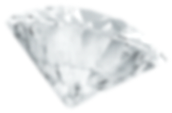
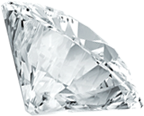
index::parallax -- disabled blur effect for brills

diff --git a/src/sass/modules/page-vendors/page_01__main/_008--pre-footer.scss b/src/sass/modules/page-vendors/page_01__main/_008--pre-footer.scss
@@ -212,16 +212,16 @@
     }
   }
   &:nth-child(5){
-    width: 76px;
-    height: 76px;
+    width: 62px;
+    height: 62px;
     background: url('../img/pre-f_g2_05.png');
     top: 500px;
     right: 195px;
 
     @media #{$ipad-macair} {
       background: url('../img/pre-f_g2_05--macair.png');
-      width: 55px;
-      height: 54px;
+      width: 62px;
+      height: 62px;
       top: 360px;
       right: 110px;
       right: 9%;
@@ -322,24 +322,24 @@
   position: absolute;
 
   &:nth-child(1){
-    width: 299px;
-    height: 196px;
-    background: url('../img/pre-f_g4_01.png');
+    width: 160px;
+    height: 130px;
+    background: url('../img/pre-f_g4_01.png') no-repeat;
     top: 715px;//+150
     left: 85px;
 
     @media #{$ipad-macair} {
-      background: url('../img/pre-f_g4_01--macair.png');
-      width: 214px;
-      height: 141px;
+      background: url('../img/pre-f_g4_01--macair.png') no-repeat;
+      width: 160px;
+      height: 130px;
       top: 550px;
       left: 4%;
     }
     @media #{$mobile-i7} {
       // display: none;
-      background: url('../img/pre-f_g4_01--mobile.png');
-      width: 172px;
-      height: 113px;
+      background: url('../img/pre-f_g4_01--mobile.png') no-repeat;
+      width: 144px;
+      height: 116px;
       top: 455px;
       left: -22%;
     }
@@ -365,15 +365,15 @@
   }
   &:nth-child(3){
     width: 62px;
-    height: 75px;
+    height: 62px;
     background: url('../img/pre-f_g4_03.png');
     top: 270px;
     right: 400px;
 
     @media #{$ipad-macair} {
       background: url('../img/pre-f_g4_03--macair.png');
-      width: 45px;
-      height: 54px;
+      width: 62px;
+      height: 62px;
       top: 240px;
       right: 290px;
       right: 22%;
@@ -381,8 +381,8 @@
     @media #{$mobile-i7} {
       // display: none;
       background: url('../img/pre-f_g4_03--mobile.png');
-      width: 41px;
-      height: 49px;
+      width: 62px;
+      height: 62px;
       top: 570px;
       right: 67%;
     }

diff --git a/src/sass/modules/page-vendors/page_01__main/_004.1--parallax.scss b/src/sass/modules/page-vendors/page_01__main/_004.1--parallax.scss
@@ -65,8 +65,8 @@
       & .brills-parallax-item {
         &:nth-child(1){
           background: url('../img/parallax-brills-left.png');
-          width: 202px;
-          height: 725px;
+          width: 193px;
+          height: 703px;
           position: relative;
           z-index: 8;
           @media #{$desktop} {
@@ -74,14 +74,14 @@
           }
           @media #{$ipad-macair} {
             background: url('../img/parallax-brills-left--macair.png');
-            width: 143px;
-            height: 515px;
+            width: 145px;
+            height: 527px;
           }
         }
         &:nth-child(2){
           background: url('../img/parallax-brills-right-bg.png');
-          width: 365px;
-          height: 990px;
+          width: 369px;
+          height: 983px;
           position: absolute;
           top: 0;
           right: 94px;
@@ -91,8 +91,8 @@
           }
           @media #{$ipad-macair} {
             background: url('../img/parallax-brills-right-bg--macair.png');
-            width: 262px;
-            height: 702px;
+            width: 265px;
+            height: 707px;
             right: 34px;
           }
         }
@@ -124,8 +124,8 @@
       & .brills-parallax-item {
         &:nth-child(1){
           background: url('../img/parallax-brills-right.png');
-          width: 603px;
-          height: 250px;
+          width: 454px;
+          height: 188px;
           position: absolute;
           top: 0;
           right: 0;
@@ -135,8 +135,8 @@
           }
           @media #{$ipad-macair} {
             background: url('../img/parallax-brills-right--macair.png');
-            width: 429px;
-            height: 178px;
+            width: 454px;
+            height: 188px;
             right: 234px;
           }
         }

diff --git a/src/js/modules/common.js b/src/js/modules/common.js
@@ -936,11 +936,11 @@ function animateRedLine() {
       if ($('.parallax-index').length > 0) {
 
           $( "#falling-brills" ).animate({
-            top: "3000px"
+            top: "100px"
           }, 3000, 'easeInSine', function() {
             // Animation complete.
 
-            $("#falling-brills").css( "display", "none" );
+            // $("#falling-brills").css( "display", "none" );
           });
       }
     }
